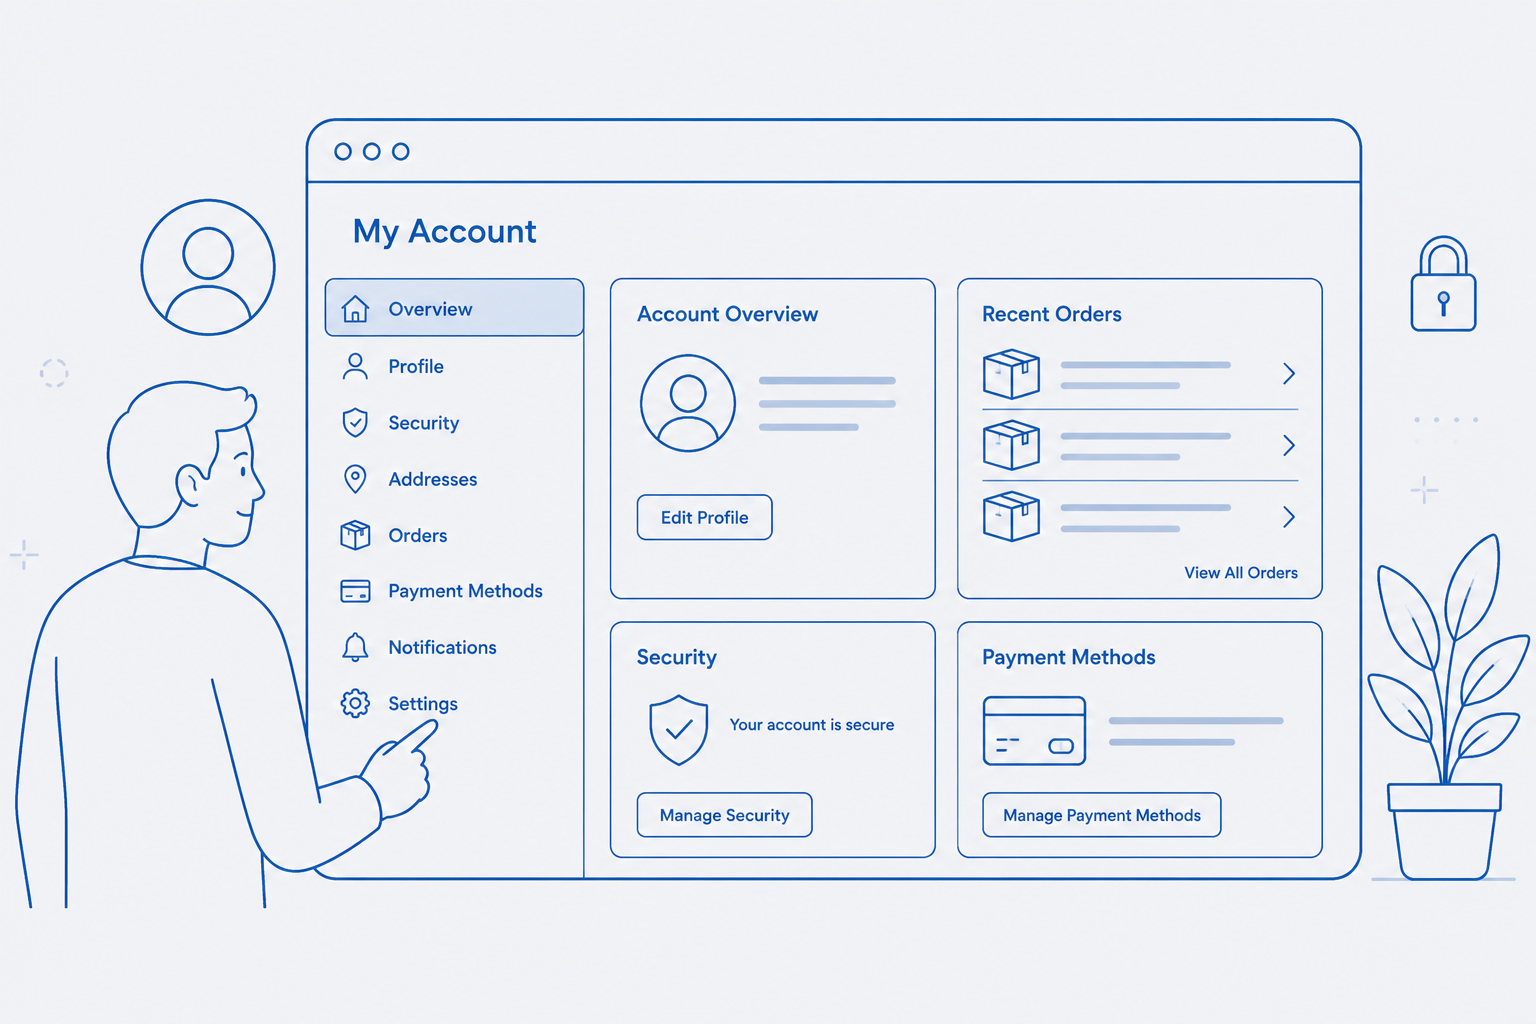
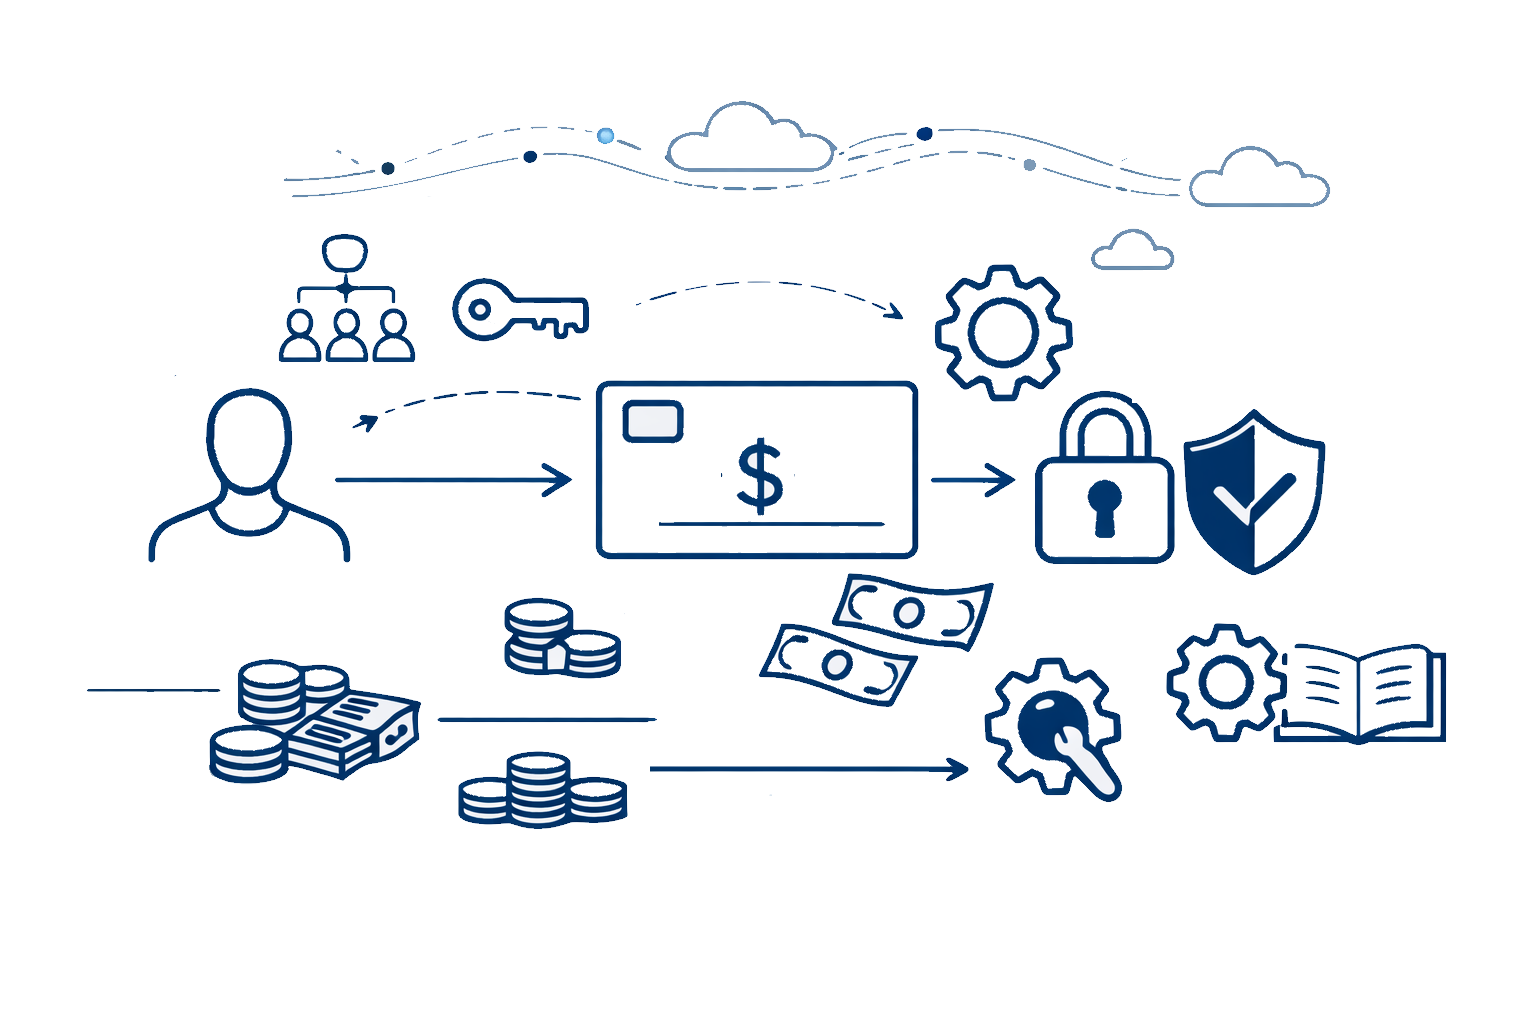
增加静态图片

diff --git a/pages/parcel-home/index.vue b/pages/parcel-home/index.vue
@@ -9,7 +9,7 @@
       <view class="title">包裹管理</view>
     </view>
 
-    <view style="padding: 16rpx; padding-top: 32rpx; padding-bottom: 0; box-sizing: border-box;">
+    <view style="padding: 16rpx; padding-top: 64rpx; padding-bottom: 0; box-sizing: border-box;">
       <image src="/static/parcel_main.png" mode="widthFix" style="width: 100%; border-radius: 16rpx; display: block;" />
     </view>
 
@@ -127,7 +127,7 @@ export default {
 .back{ position:absolute; left:12rpx; top:50%; transform:translateY(-50%) }
 .back-icon{ width:56rpx; height:56rpx; background:rgba(255,255,255,0.12); border-radius:50%; display:flex; align-items:center; justify-content:center; box-shadow:0 6rpx 16rpx rgba(0,0,0,0.18) }
 .back-chevron{ width:18rpx; height:18rpx; border-top:4rpx solid #fff; border-left:4rpx solid #fff; transform:rotate(-45deg); margin-left:8rpx; box-sizing:border-box }
-.content{ flex:1; padding:0 16rpx 40rpx; display:flex; flex-direction:column; gap:24rpx }
+.content{ flex:1; padding:0 16rpx 40rpx; display:flex; flex-direction:column; gap:12rpx }
 .func-card{ background:#fff; border-radius:24rpx; padding:8rpx 24rpx 20rpx; box-shadow:0 4rpx 24rpx rgba(8,37,103,0.08) }
 .section-title{ font-size:28rpx; font-weight:700; color:#082567; margin-bottom:24rpx; padding-left:4rpx }
 .primary-row{ display:flex; gap:20rpx; margin-bottom:20rpx }

diff --git a/pages/account/index.vue b/pages/account/index.vue
@@ -9,7 +9,7 @@
       <view class="title">账户</view>
     </view>
 
-    <view style="padding: 16rpx; padding-top: 32rpx; padding-bottom: 0; box-sizing: border-box;">
+    <view style="padding: 16rpx; padding-top: 64rpx; padding-bottom: 0; box-sizing: border-box;">
       <image src="/static/account_main.png" mode="widthFix" style="width: 100%; border-radius: 16rpx; display: block;" />
     </view>
 

diff --git a/pages/item-home/index.vue b/pages/item-home/index.vue
@@ -9,7 +9,7 @@
       <view class="title">商品查询</view>
     </view>
 
-    <view style="padding: 16rpx; padding-top: 32rpx; padding-bottom: 0; box-sizing: border-box;">
+    <view style="padding: 16rpx; padding-top: 64rpx; padding-bottom: 0; box-sizing: border-box;">
       <image src="/static/item_main.png" mode="widthFix" style="width: 100%; border-radius: 16rpx; display: block;" />
     </view>
 